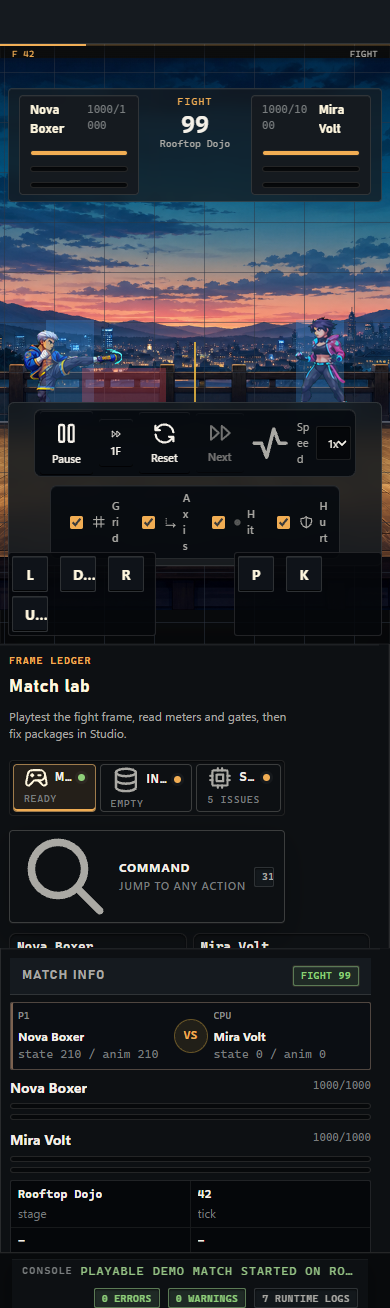
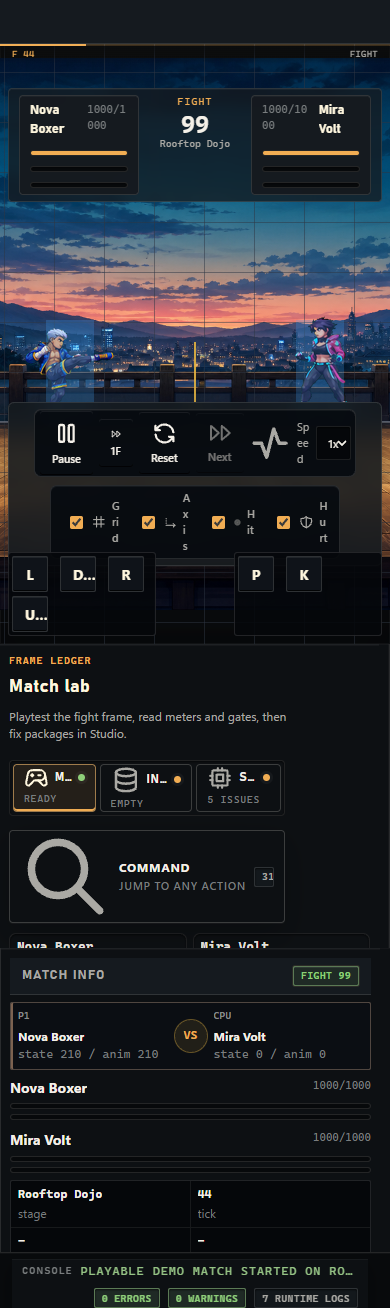
fix(input): preserve gamepad seat on index change

Changed region(s): [[0.0615, 0.2446, 0.4308, 0.3058], [0.5231, 0.8869, 0.5538, 0.9174]]

diff --git a/src/game/input/GamepadInputAdapter.ts b/src/game/input/GamepadInputAdapter.ts
@@ -74,6 +74,7 @@ export class GamepadInputAdapter {
   private readonly getGamepads: () => ReadonlyArray<Gamepad | null | undefined>;
   private readonly deadzone: number;
   private readonly seatByIndex: Record<number, MatchInputSeatId>;
+  private readonly seatByDeviceId = new Map<string, MatchInputSeatId>();
   private readonly remap: MatchInputRemapTable | undefined;
   private readonly socdMode: RuntimeSocdResolution;
   private lastPolicy?: MatchInputPolicySnapshot;
@@ -122,12 +123,17 @@ export class GamepadInputAdapter {
     for (let index = 0; index < pads.length; index += 1) {
       const pad = pads[index];
       if (!pad || pad.connected === false) continue;
-      const seat = this.seatByIndex[index];
+      const deviceIndex = Number.isInteger(pad.index) ? pad.index : index;
+      const deviceId = pad.id?.trim() ?? "";
+      const seat =
+        (deviceId ? this.seatByDeviceId.get(deviceId) : undefined) ??
+        this.seatByIndex[deviceIndex] ??
+        this.seatByIndex[index];
       if (!seat) continue;
       // First connected pad for a seat wins.
       if (!bySeat.has(seat)) {
-        const deviceIndex = Number.isInteger(pad.index) ? pad.index : index;
         bySeat.set(seat, { pad, index: deviceIndex });
+        if (deviceId) this.seatByDeviceId.set(deviceId, seat);
       }
     }
 

diff --git a/src/tests/GamepadInputAdapter.test.ts b/src/tests/GamepadInputAdapter.test.ts
@@ -120,6 +120,26 @@ describe("GamepadInputAdapter", () => {
     expect(adapter.getState(1).size).toBe(0);
   });
 
+  it("keeps a logical seat when a known device reconnects at a new browser index", () => {
+    let pads: Array<Gamepad | null> = [createFakeGamepad({ index: 0, id: "Stable Pad", buttons: [true] })];
+    const adapter = new GamepadInputAdapter({ getGamepads: () => pads });
+
+    adapter.poll(1);
+    expect(adapter.getDiagnostics().seats[0]?.index).toBe(0);
+
+    pads = Array.from({ length: 5 }, () => null);
+    pads[4] = createFakeGamepad({ index: 4, id: "Stable Pad", buttons: [false] });
+    adapter.poll(2);
+
+    expect(adapter.getDiagnostics().seats[0]).toMatchObject({
+      connected: true,
+      index: 4,
+      id: "Stable Pad",
+      mapping: "standard",
+    });
+    expect(adapter.getDiagnostics().seats[1]?.connected).toBe(false);
+  });
+
   it("exposes seat diagnostics for mapping, index, and active actions", () => {
     const pads = [
       createFakeGamepad({ index: 4, id: "Arcade Pad", buttons: [true] }),
